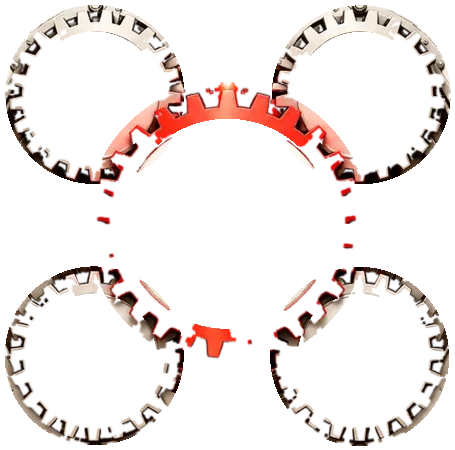
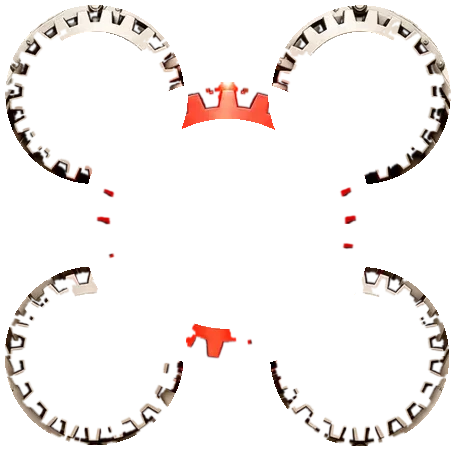
Fix red gear see-through during the turn; new hero opening copy
Gear rig:
- The gear layers were drawn with the red gear first, so while turning it
  sat under the function gears where they mesh. It is now drawn last, in
  front, as in the artwork.
- The static front layer (meant only for shaft glows and brackets) was
  picking up silver teeth seen between red teeth and freezing them on top
  while the ring turned. Each gear's front layer now stays clear of the
  gears it meshes with.
- The interior shown behind moving red teeth is sampled from the art's real
  gaps (warm, dark) rather than a flat grey.

Hero: replace the opening paragraph with Andrew's new copy, and lay the hero
out as headline above, paragraph at reading width with the button beside it,
so the longer copy does not push the machine below the fold.

Claude-Session: https://claude.ai/code/session_01PbAnrJaT2h2NzokuXUFqJZ

diff --git a/app/globals.css b/app/globals.css
@@ -12,11 +12,12 @@
 .home-v2{background:var(--paper);overflow:hidden}
 .home-v2 .section{padding:118px 0}
 .v2-hero{padding:72px 0 0;position:relative}
-.v2-hero-head{display:grid;grid-template-columns:minmax(0,1.5fr) minmax(0,.7fr);gap:28px 64px;align-items:end}
+.v2-hero-head{display:grid;grid-template-columns:1fr;gap:30px}
 .v2-hero-title h1{font-family:Georgia,"Times New Roman",serif;font-size:clamp(52px,5.3vw,84px);line-height:.95;letter-spacing:-.045em;font-weight:400;margin:14px 0 0}
-.v2-hero-copy{max-width:520px;padding-bottom:8px}
+.v2-hero-copy{display:grid;grid-template-columns:minmax(0,660px) auto;justify-content:space-between;align-items:end;gap:24px 64px}
+.v2-hero-copy .v2-hero-actions{margin-top:0;flex-direction:column;align-items:flex-start;gap:14px}
 .v2-hero-machine{width:min(1320px,100% - 32px);margin:44px auto 0}
-.v2-hero-lede{max-width:650px;font-size:19px;line-height:1.6;color:var(--muted);margin:0}
+.v2-hero-lede{max-width:660px;font-size:19px;line-height:1.6;color:var(--muted);margin:0}
 .v2-hero-actions{display:flex;align-items:center;gap:22px;flex-wrap:wrap;margin-top:34px}
 .v2-note{font-size:12px;letter-spacing:.08em;text-transform:uppercase;color:var(--stone)}
 
@@ -111,7 +112,8 @@
 
 @media(max-width:980px){
   .home-v2 .section{padding:90px 0}
-  .v2-hero-head{grid-template-columns:1fr;gap:22px}
+  .v2-hero-head{gap:22px}
+  .v2-hero-copy{grid-template-columns:1fr}
   .v2-hero-machine{margin-top:36px}
   .v2-role-line{grid-template-columns:1fr;justify-items:start}
   .v2-role-line>div{justify-content:flex-start}

diff --git a/app/page.jsx b/app/page.jsx
@@ -14,7 +14,7 @@ export default function Home(){
           <h1>Don’t hire the title.<br/><em>Solve the growth problem.</em></h1>
         </div>
         <div className="v2-hero-copy">
-          <p className="v2-hero-lede">A small team of senior founders and growth operators who work across strategy, revenue, marketing, sales, ecommerce and GTM — then get inside the business and do the work.</p>
+          <p className="v2-hero-lede">When growth slows, businesses often reach for a title: CMO, CRO, Head of Growth, GTM lead. But the real constraint rarely respects the org chart. It may sit in positioning, acquisition, conversion, sales, pricing, ecommerce, systems — or in the gaps between them. We diagnose the whole growth system, then step in and do the work that matters most.</p>
           <div className="v2-hero-actions">
             <Link className="button" href="/contact">Talk to The Growth Machine →</Link>
             <span className="v2-note">Fractional. Senior-led. Hands-on.</span>

diff --git a/tools/machine/build_machine.py b/tools/machine/build_machine.py
@@ -586,8 +586,18 @@ def build(kind, cfg):
             # Behind the red teeth is the dark interior of the machine. The
             # gaps also show bits of the function gears, which the grey rings
             # redraw themselves, so use the plain interior tone per radius.
-            tone = np.stack([np.percentile(np.where(keep[..., None], Pb, np.nan)[i], 30, axis=0) if keep[i].any() else Pb[i].mean(0) for i in range(Pb.shape[0])])
-            tone = np.nan_to_num(tone, nan=60.0)
+            # sample only gaps away from the function gears: those show the
+            # warm, dark interior, not silver teeth
+            thg = np.linspace(0, 2 * np.pi, Pb.shape[1], endpoint=False)
+            px = g["c"][0] + rs[:, None] * np.cos(thg)[None]
+            py = g["c"][1] + rs[:, None] * np.sin(thg)[None]
+            clear = keep.copy()
+            for o in all_gears:
+                if not o["red"]:
+                    clear &= np.hypot(px - o["c"][0], py - o["c"][1]) > o["band"][1] + 4
+            masked = np.where(clear[..., None], Pb, np.nan)
+            tone = np.stack([np.nanmedian(masked[i], axis=0) if clear[i].any() else Pb[i].mean(0) for i in range(Pb.shape[0])])
+            tone = np.nan_to_num(tone, nan=50.0)
             filled = np.where(keep[..., None], Pb, tone[:, None, :])
         else:
             filled = fill_along_theta(Pb, keep)
@@ -630,6 +640,15 @@ def build(kind, cfg):
         box = (int(g["c"][0] - r_out), int(g["c"][1] - r_out), int(g["c"][0] + r_out) + 1, int(g["c"][1] + r_out) + 1)
         cart, inside = unpolar(softm, g["c"], rs, th, (H, W), box)
         bx0, by0, bx1, by1 = box
+        # Keep each gear's front layer out of the other gears: where the red
+        # gear meshes with a function gear, the silver teeth seen between the
+        # red teeth are brighter than the median red tooth and would otherwise
+        # be frozen on top while the red ring turns under them.
+        sub_y, sub_x = np.mgrid[by0:by1, bx0:bx1]
+        others = [o for o in all_gears if o["id"] != g["id"] and (g["red"] or o["red"])]
+        for o in others:
+            near = np.hypot(sub_x - o["c"][0], sub_y - o["c"][1]) < o["band"][1] + 3
+            cart = np.where(near, 0, cart)
         front_a[by0:by1, bx0:bx1] = np.maximum(front_a[by0:by1, bx0:bx1], np.where(inside, cart, 0))
     # the outer radius of the red teeth band touches the shaft glows above/below:
     front = np.dstack([clean, np.clip(front_a, 0, 1) * 255])
@@ -698,6 +717,9 @@ def build(kind, cfg):
                 bx1 += gx
             out.append([bx0 - x0, by0 - y0, bx1 - bx0, by1 - by0])
         return out
+
+    # draw order: function gears first, the red gear last (it sits in front of them)
+    gears.sort(key=lambda gb: gb["id"] == "red")
 
     return {
         "size": [x1 - x0, y1 - y0],
